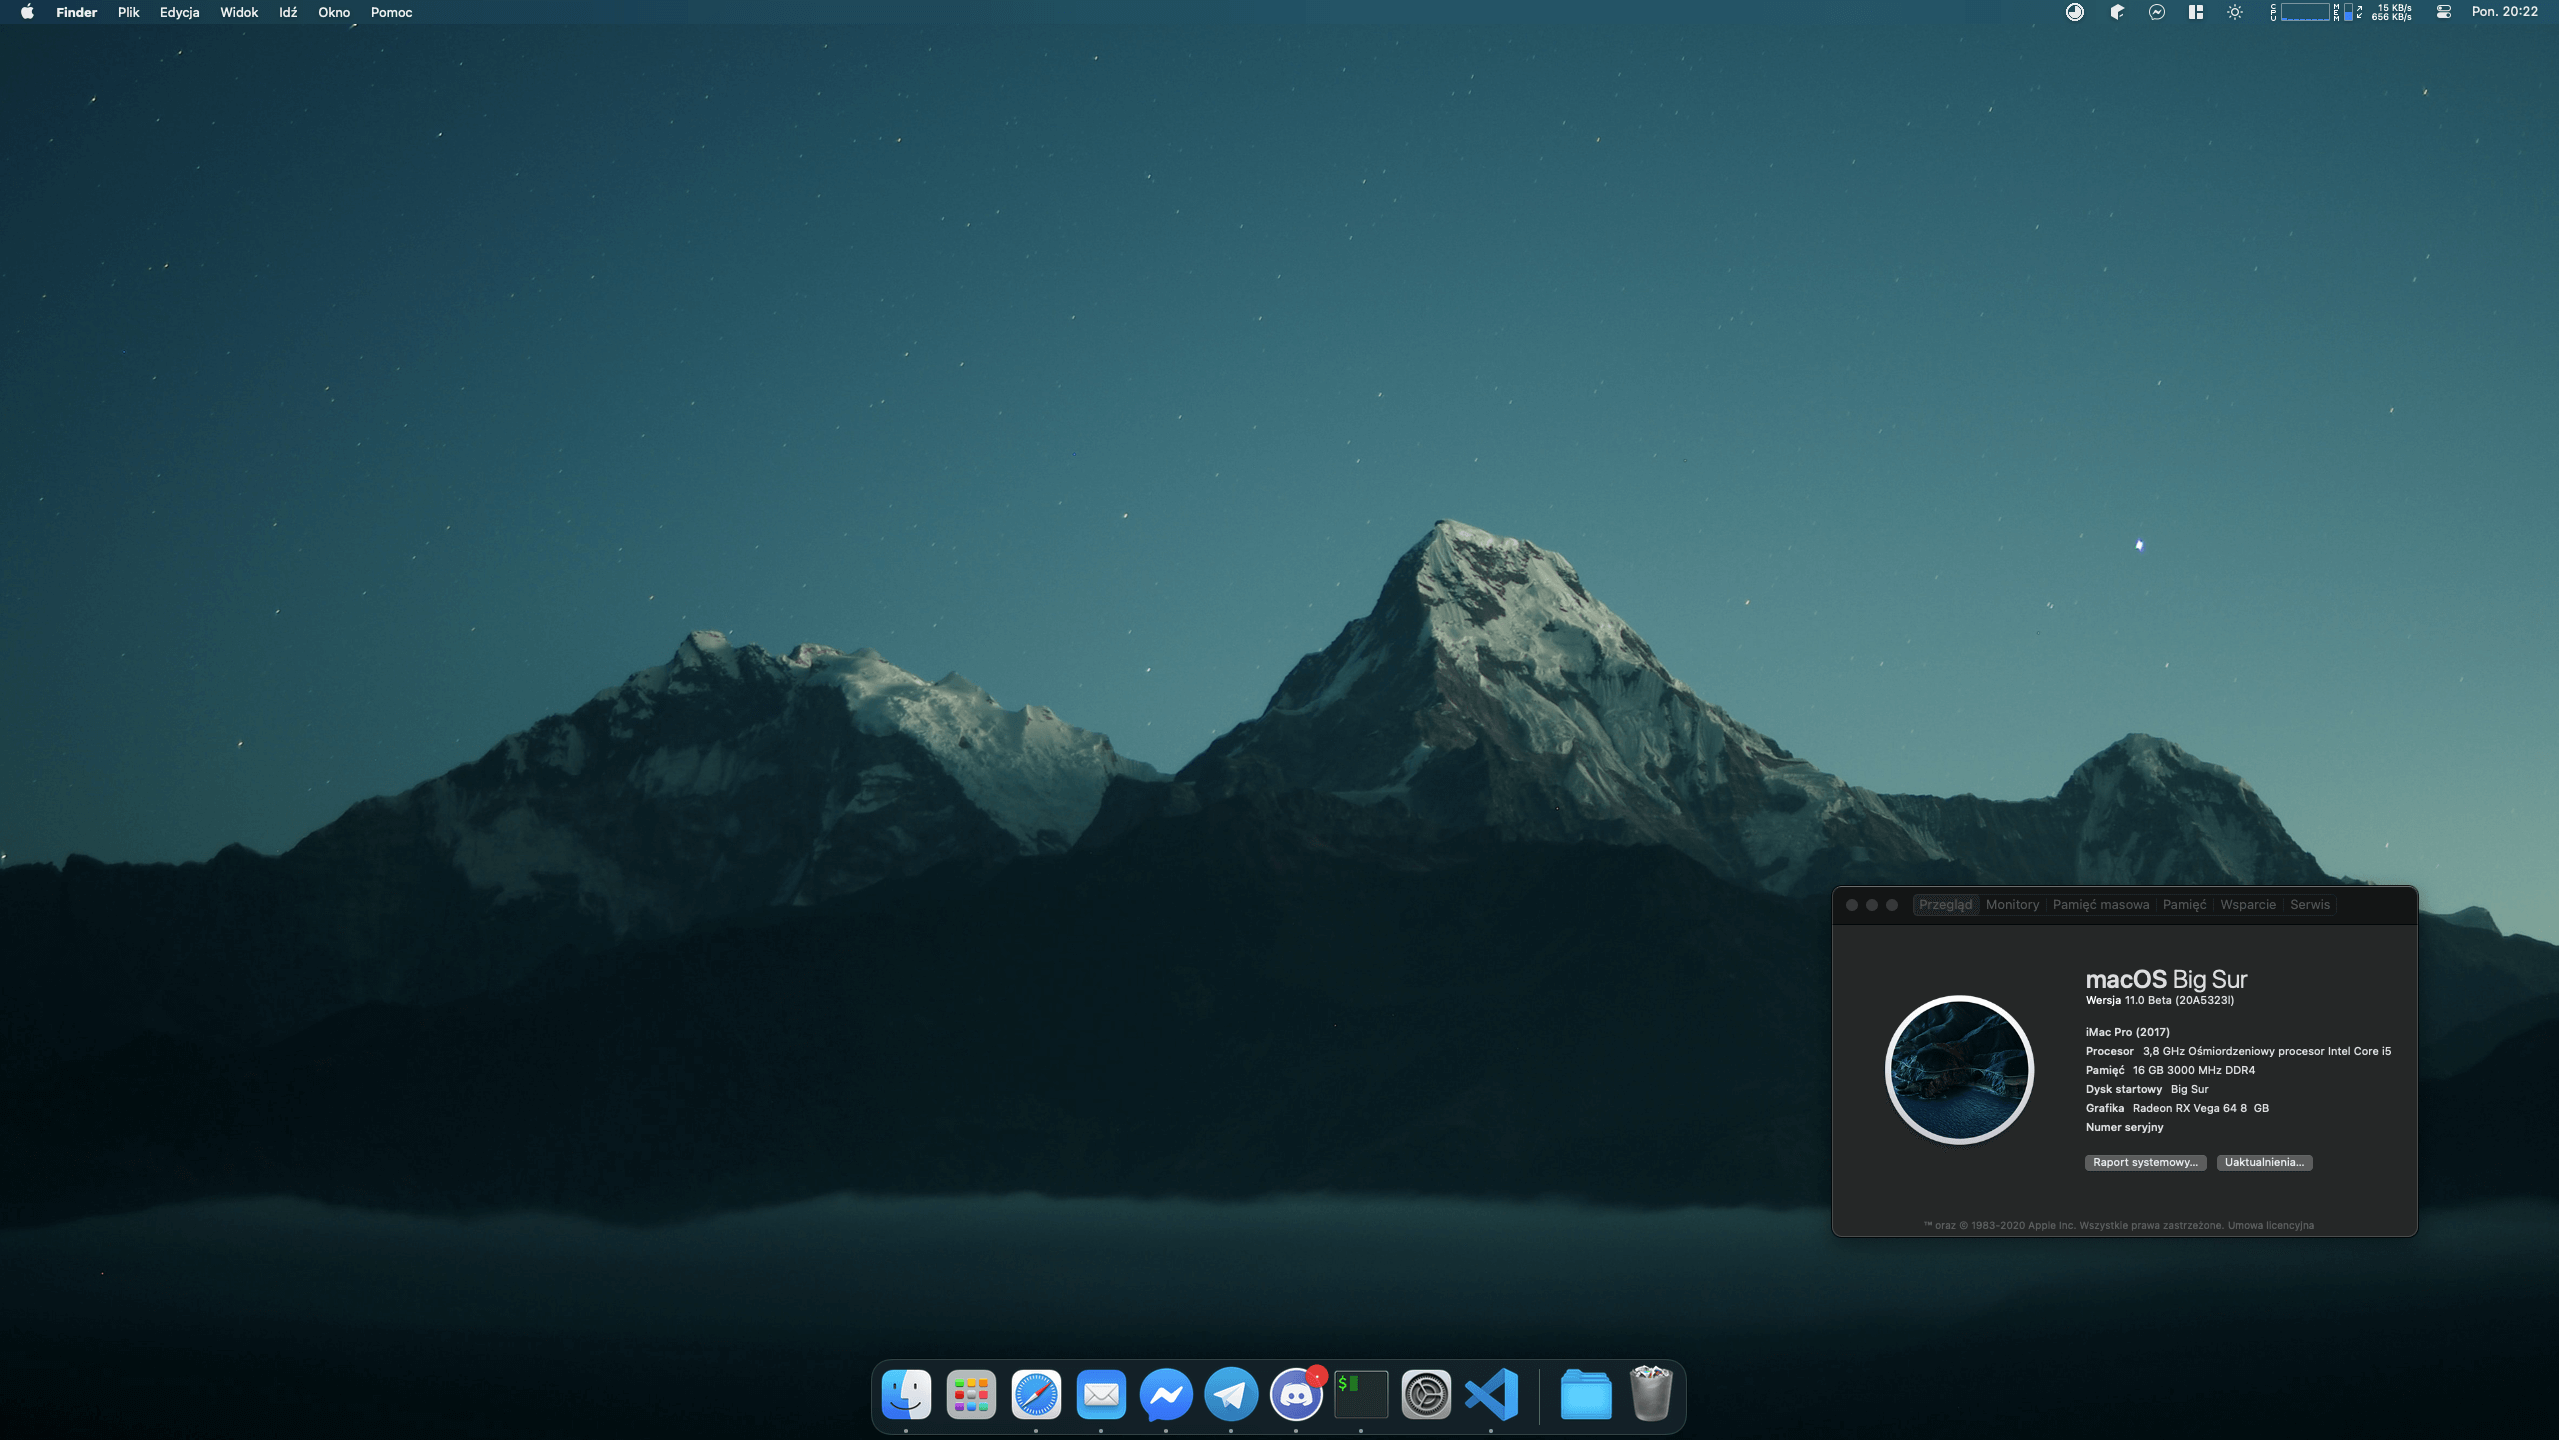
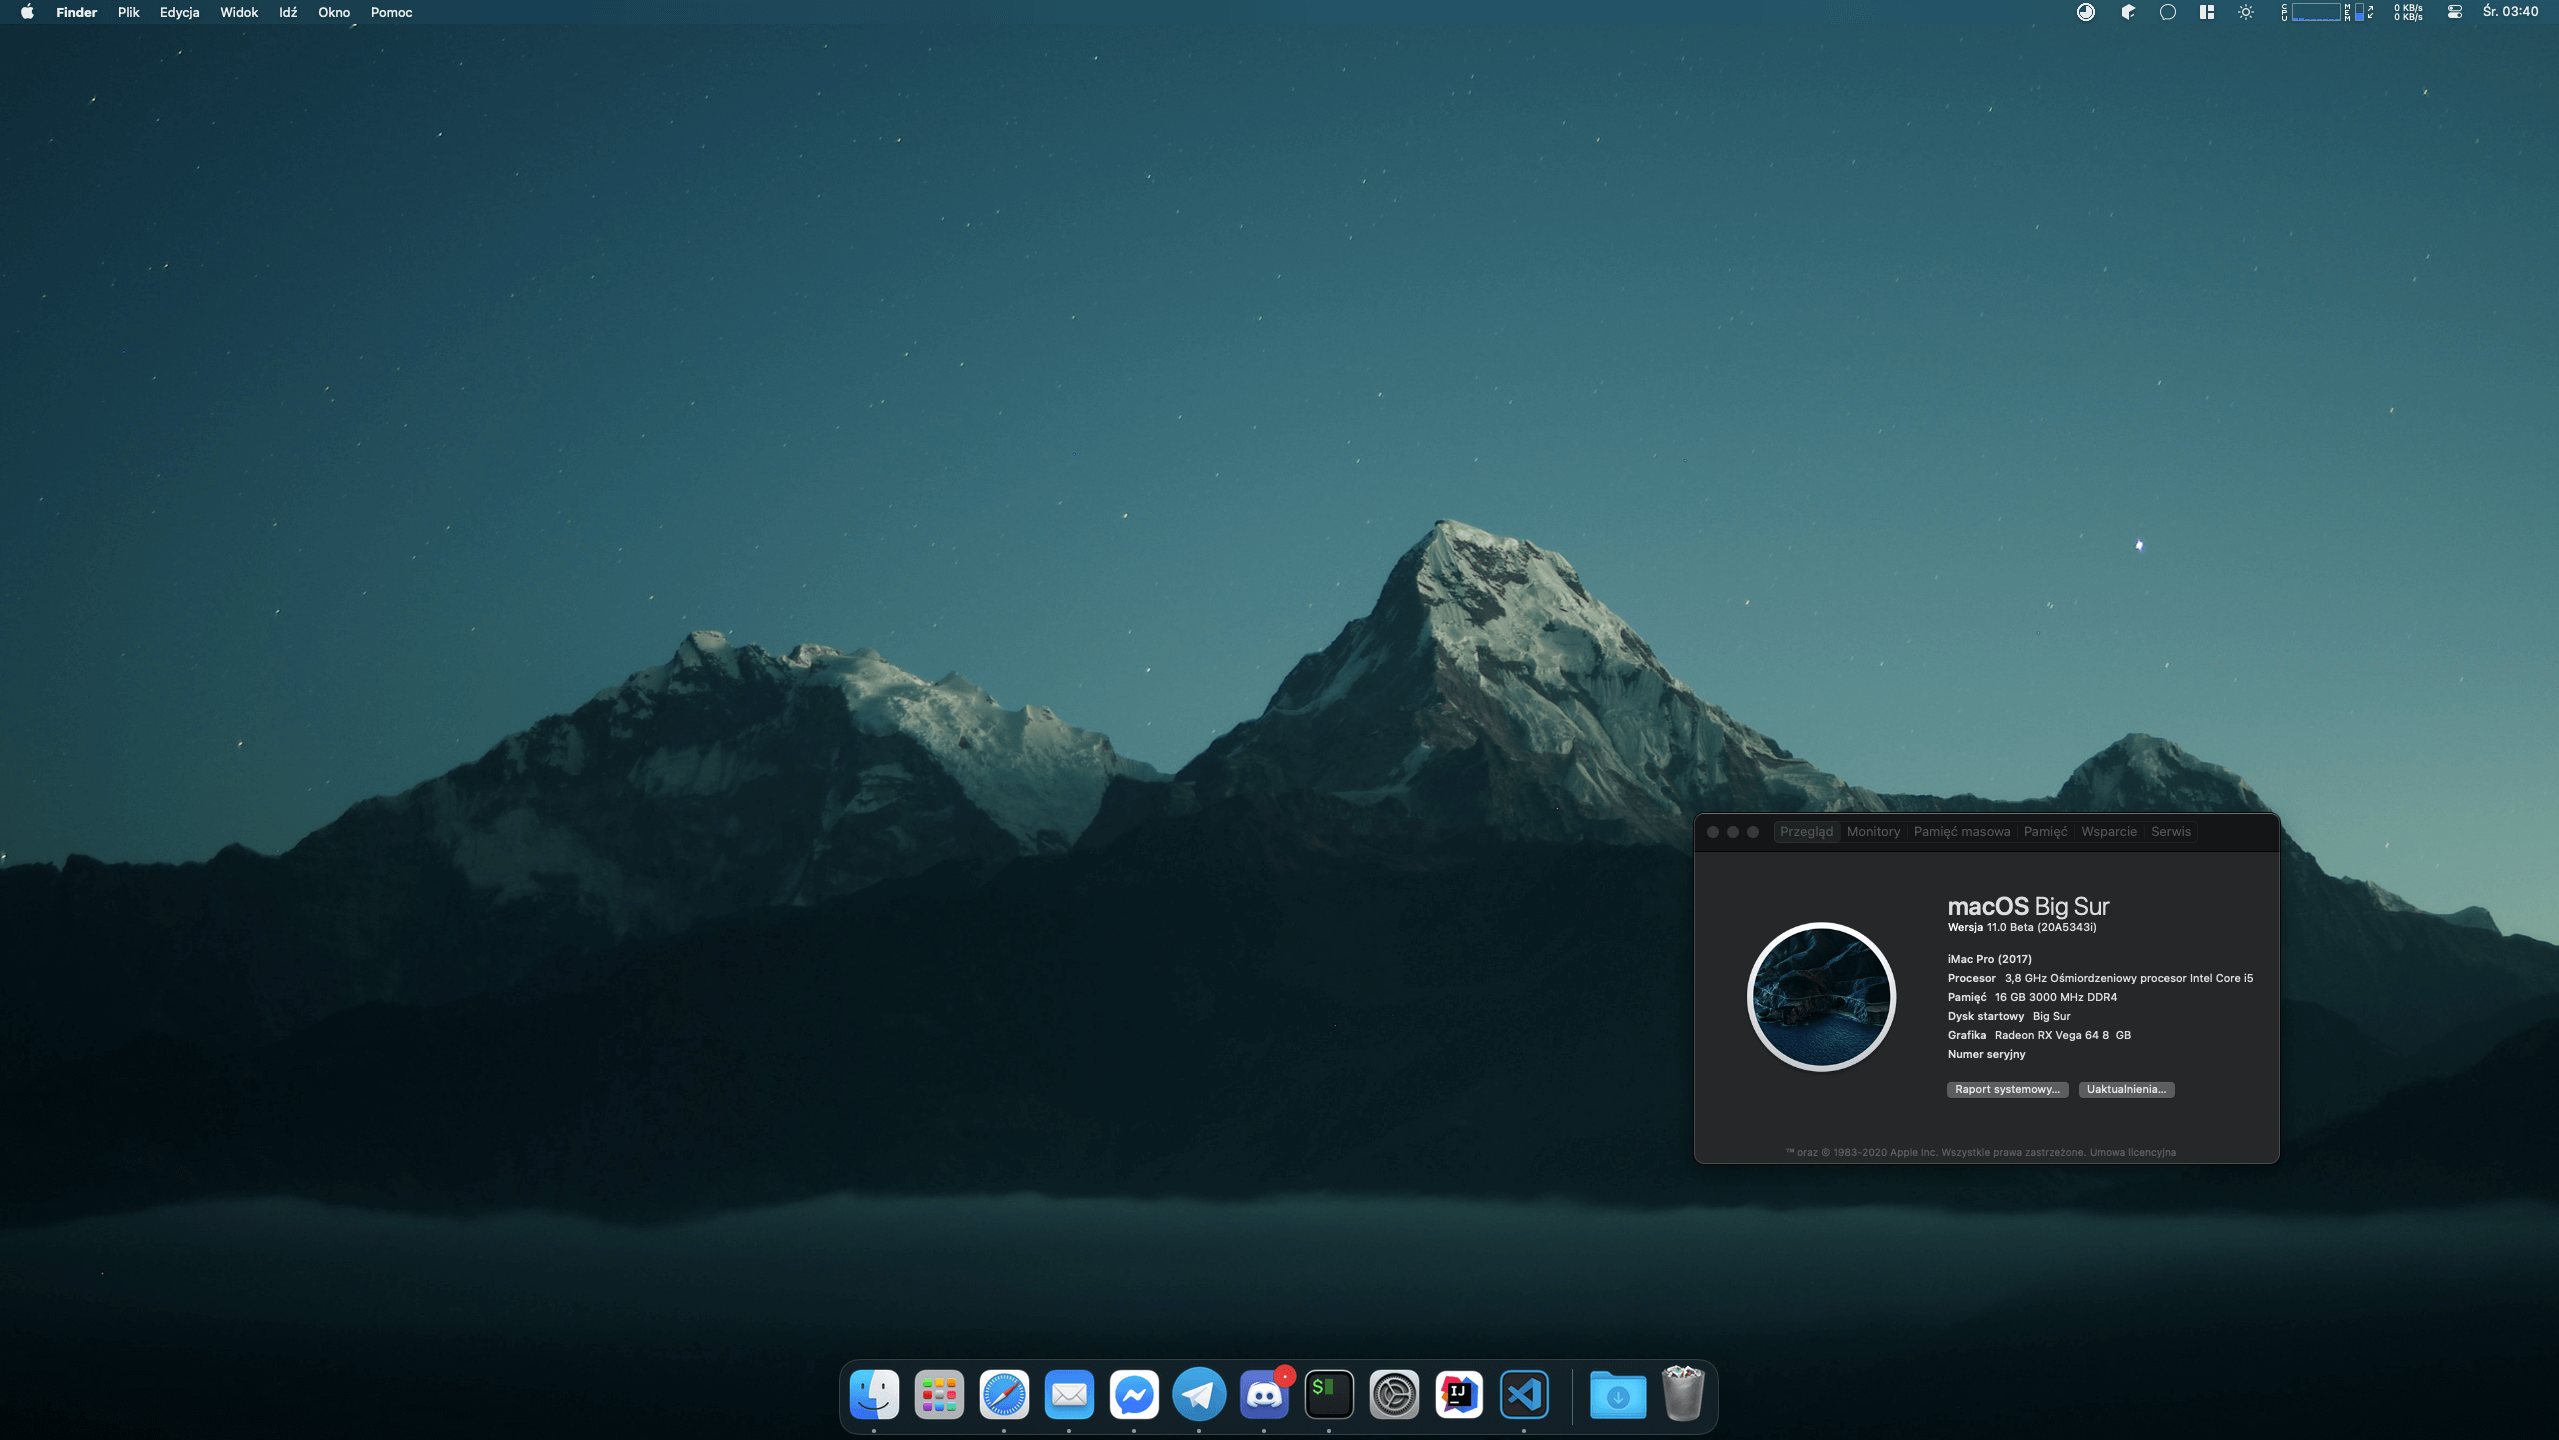
macOS Update (11.0 Beta 4, 20A5343i)

diff --git a/README.MD b/README.MD
@@ -11,7 +11,7 @@
 | WiFi & Bluetooth | Fenvi T919 (BCM94360CD) |
 | OS Disk (NVMe) | Samsung 960 Evo 250GB |
 
-**macOS version**: 11.0 Beta 3 (20A5323l)  
+**macOS version**: 11.0 Beta 4 (20A5343i)  
 **OpenCore version**: 0.6.0  
 
 ## Drivers & Kexts
